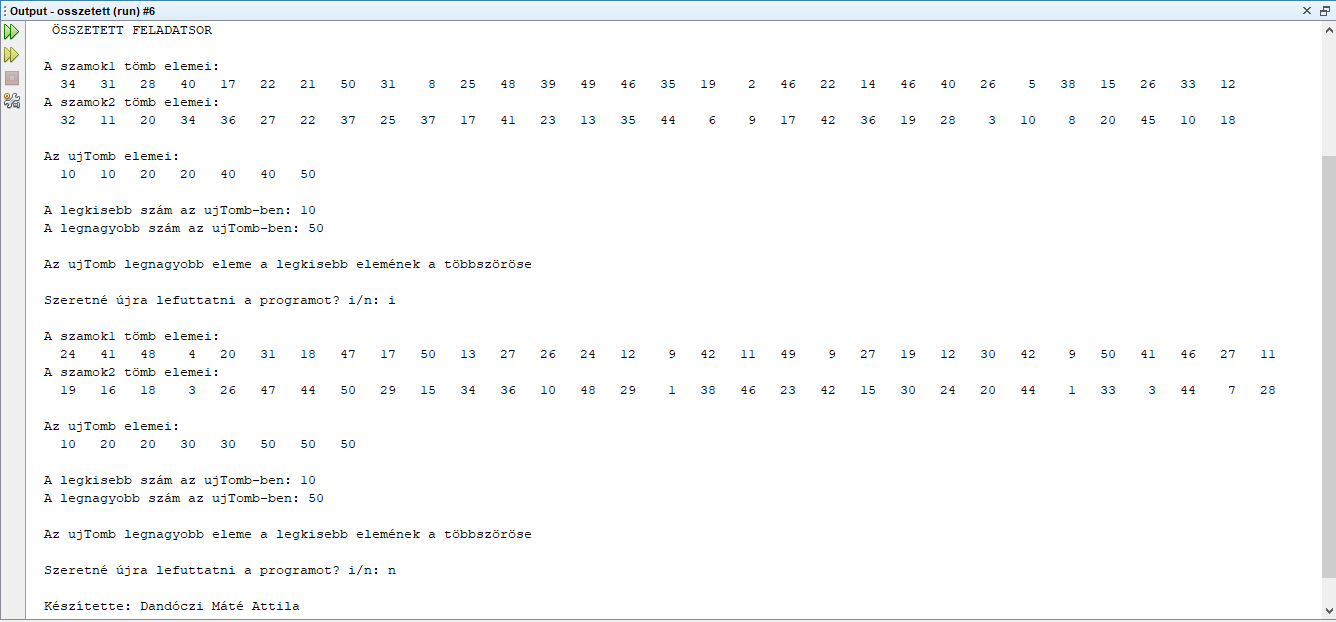
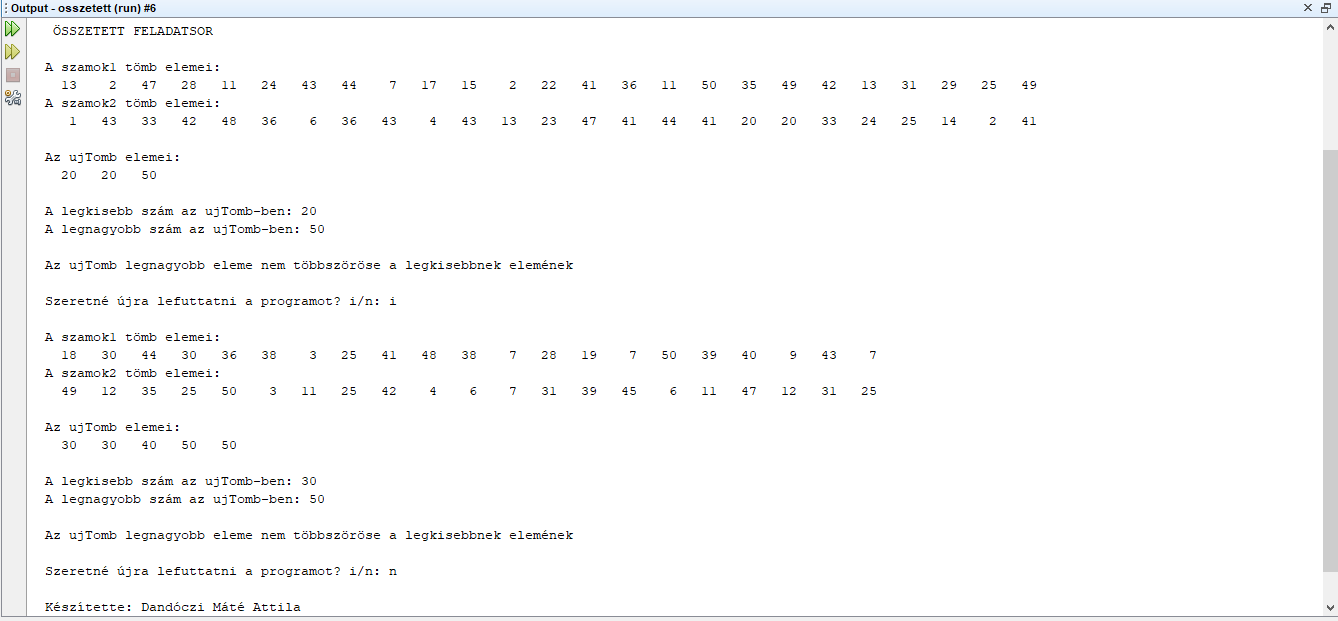
Add files via upload

diff --git a/Osszetett.java b/Osszetett.java
@@ -19,7 +19,7 @@ public class Osszetett {
         char valasz = 0;
         do{
         //2.tömb hossza
-            int darabszam = (int) (Math.random() * 10) + 30;
+            int darabszam = (int) (Math.random() * 10) + 20;
         //1. két tömb létrehozása
         int szamok1[] = new int[darabszam];
         int szamok2[] = new int[darabszam];
